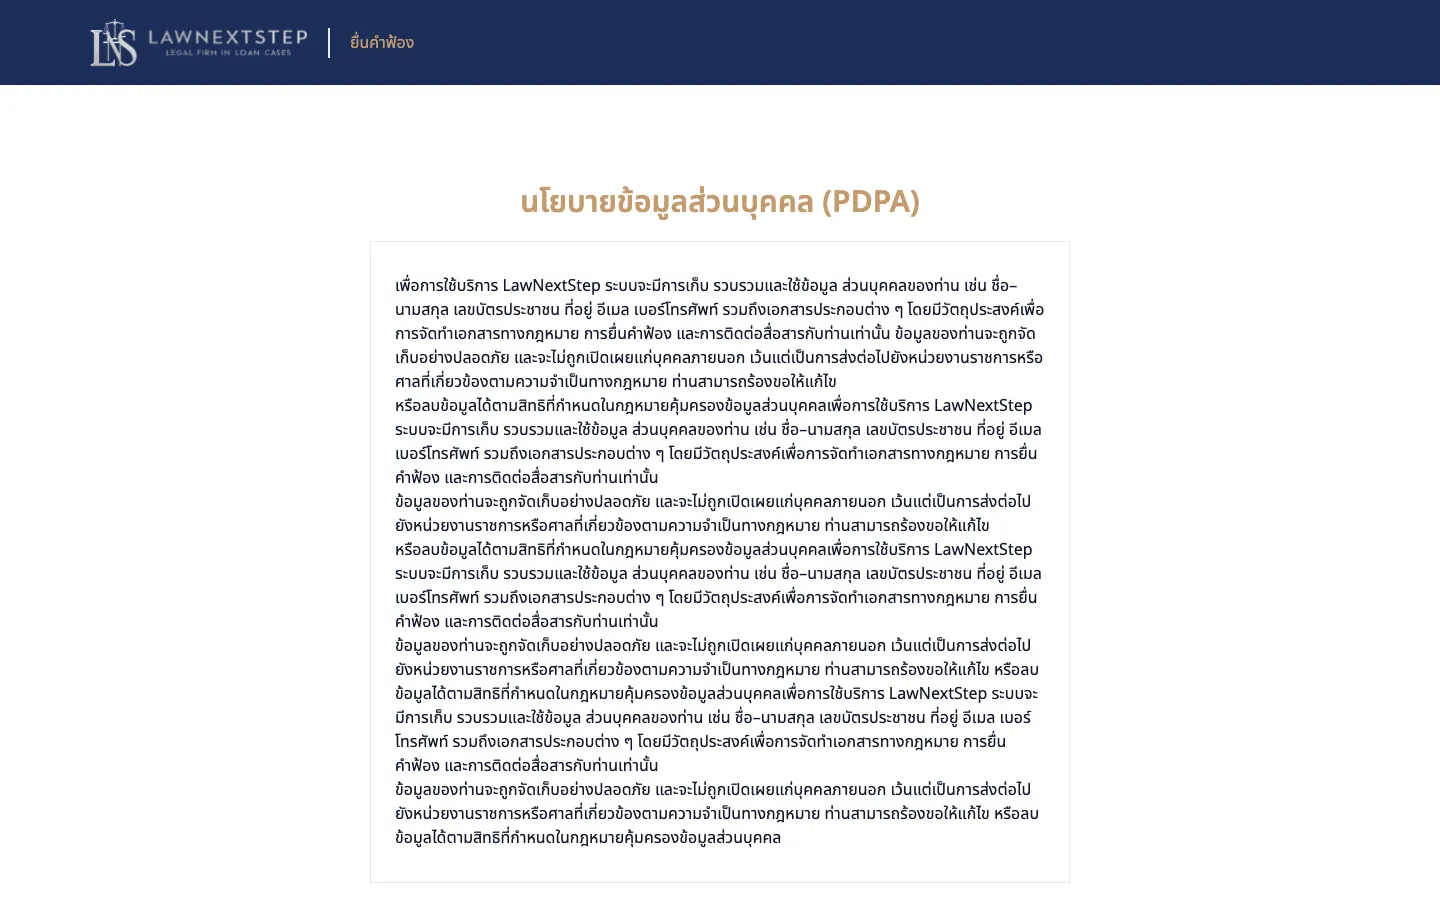
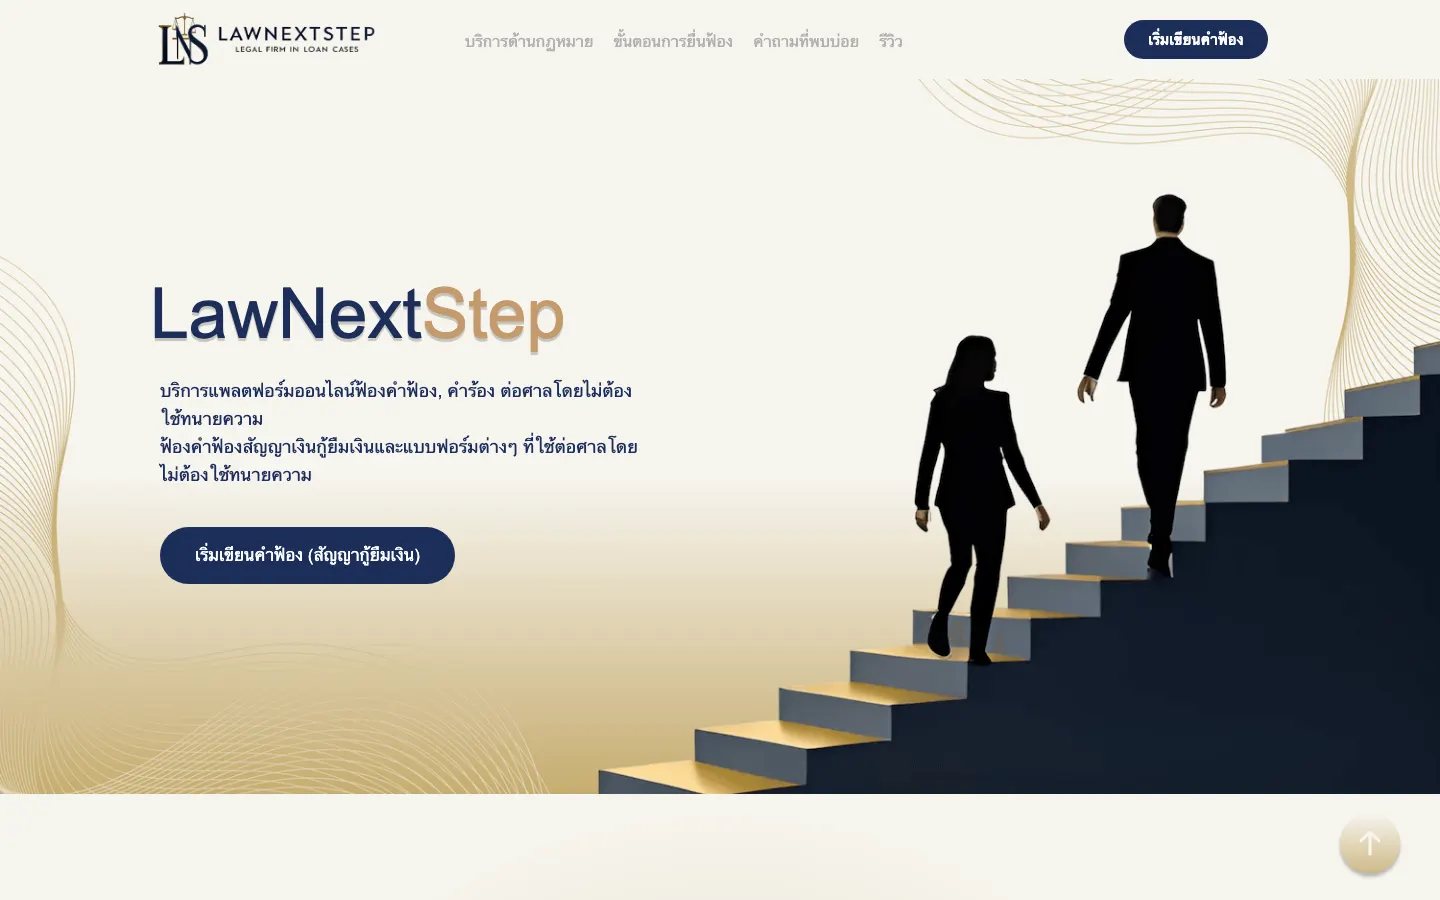
feat(work): use an even grid and show the LawNextStep homepage

diff --git a/src/data/landing.ts b/src/data/landing.ts
@@ -193,7 +193,6 @@ export type Project = {
   category: string;
   group: ProjectGroup;
   kind: "client" | "product" | "internal";
-  size: "lg" | "md" | "sm";
   featured: boolean;
   /** Left off /work/ (shown on the home list only). */
   hideOnWorkPage?: boolean;
@@ -220,7 +219,6 @@ export const projects: Project[] = [
     number: "01",
     group: "corporate",
     kind: "client",
-    size: "lg",
     featured: true,
     description: "Corporate website for the Kantana group.",
     tags: ["Corporate website", "Astro"],
@@ -233,7 +231,6 @@ export const projects: Project[] = [
     number: "02",
     group: "ecommerce",
     kind: "client",
-    size: "sm",
     featured: true,
     description: "Website for a diamond and 18K jewelry maker and wholesaler.",
     tags: ["Online store", "Astro", "LINE LIFF"],
@@ -246,7 +243,6 @@ export const projects: Project[] = [
     number: "03",
     group: "healthcare",
     kind: "client",
-    size: "md",
     featured: true,
     description: "Hospital website.",
     tags: ["Healthcare website"],
@@ -259,7 +255,6 @@ export const projects: Project[] = [
     number: "04",
     group: "corporate",
     kind: "client",
-    size: "md",
     featured: true,
     description: "Website for a home builder.",
     tags: ["Corporate website", "Next.js"],
@@ -274,7 +269,6 @@ export const projects: Project[] = [
     number: "05",
     group: "events",
     kind: "client",
-    size: "sm",
     featured: true,
     description: "Website for a trade exhibition.",
     tags: ["Event website"],
@@ -287,7 +281,6 @@ export const projects: Project[] = [
     number: "06",
     group: "events",
     kind: "client",
-    size: "sm",
     featured: true,
     description: "Website for a franchise exhibition.",
     tags: ["Event website"],
@@ -300,7 +293,6 @@ export const projects: Project[] = [
     number: "07",
     group: "events",
     kind: "client",
-    size: "lg",
     featured: false,
     description:
       "Event website with free seat booking, for a cinema event on 26 Nov 2026.",
@@ -314,7 +306,6 @@ export const projects: Project[] = [
     number: "08",
     group: "events",
     kind: "client",
-    size: "md",
     featured: false,
     description:
       "Registration website for the MindSciX 2026 Thailand Research & Innovation Forum.",
@@ -328,7 +319,6 @@ export const projects: Project[] = [
     number: "09",
     group: "corporate",
     kind: "client",
-    size: "md",
     featured: false,
     description: "Corporate website for KCP.",
     tags: ["Corporate website", "Astro"],
@@ -341,7 +331,6 @@ export const projects: Project[] = [
     number: "10",
     group: "platforms",
     kind: "client",
-    size: "md",
     featured: false,
     description: "Web application for filing legal documents online.",
     tags: ["Web application", "Next.js"],
@@ -354,7 +343,6 @@ export const projects: Project[] = [
     number: "11",
     group: "platforms",
     kind: "internal",
-    size: "md",
     featured: false,
     description: "Management system for Nong Niaw Market.",
     tags: ["Dashboard", "Next.js"],
@@ -367,7 +355,6 @@ export const projects: Project[] = [
     number: "12",
     group: "platforms",
     kind: "product",
-    size: "lg",
     featured: false,
     description: "Membership management through LINE OA.",
     tags: ["LINE OA", "Next.js", "Elysia"],
@@ -380,7 +367,6 @@ export const projects: Project[] = [
     number: "13",
     group: "platforms",
     kind: "product",
-    size: "sm",
     featured: false,
     description: "AI courses for business owners, executives and developers.",
     tags: ["Course website", "Astro"],

diff --git a/src/styles/work.css b/src/styles/work.css
@@ -58,21 +58,12 @@
 /* Grid */
 .work-grid {
   display: grid;
-  grid-template-columns: repeat(12, minmax(0, 1fr));
+  grid-template-columns: repeat(3, minmax(0, 1fr));
   gap: 56px 32px;
   transition: opacity 0.16s ease;
 }
 .work-grid.is-filtering {
   opacity: 0;
-}
-.work-card--lg {
-  grid-column: span 8;
-}
-.work-card--md {
-  grid-column: span 6;
-}
-.work-card--sm {
-  grid-column: span 4;
 }
 
 .work-card {
@@ -95,9 +86,6 @@
   border-radius: 5px;
   background: #151316;
   transition: border-color 0.3s;
-}
-.work-card--lg .work-shot {
-  aspect-ratio: 16 / 9;
 }
 .work-shot img {
   width: 100%;
@@ -129,9 +117,6 @@
   letter-spacing: -0.03em;
   line-height: 1.25;
 }
-.work-card--lg .work-name {
-  font-size: clamp(24px, 2.4vw, 36px);
-}
 .work-desc {
   color: var(--muted);
   font-size: 15px;
@@ -152,7 +137,8 @@
   padding: 6px 8px;
 }
 .work-view {
-  margin-top: 4px;
+  margin-top: auto;
+  padding-top: 4px;
   font-size: 14px;
   color: var(--muted);
   transition: color 0.2s;
@@ -271,13 +257,6 @@
     grid-template-columns: repeat(2, minmax(0, 1fr));
     gap: 48px 24px;
   }
-  .work-card--lg {
-    grid-column: span 2;
-  }
-  .work-card--md,
-  .work-card--sm {
-    grid-column: span 1;
-  }
 }
 @media (max-width: 800px) {
   .work-hero {
@@ -305,12 +284,6 @@
   .work-grid {
     grid-template-columns: minmax(0, 1fr);
     gap: 44px;
-  }
-  .work-card--lg {
-    grid-column: auto;
-  }
-  .work-card--lg .work-shot {
-    aspect-ratio: 16 / 10;
   }
   .work-cta-actions {
     flex-wrap: wrap;
